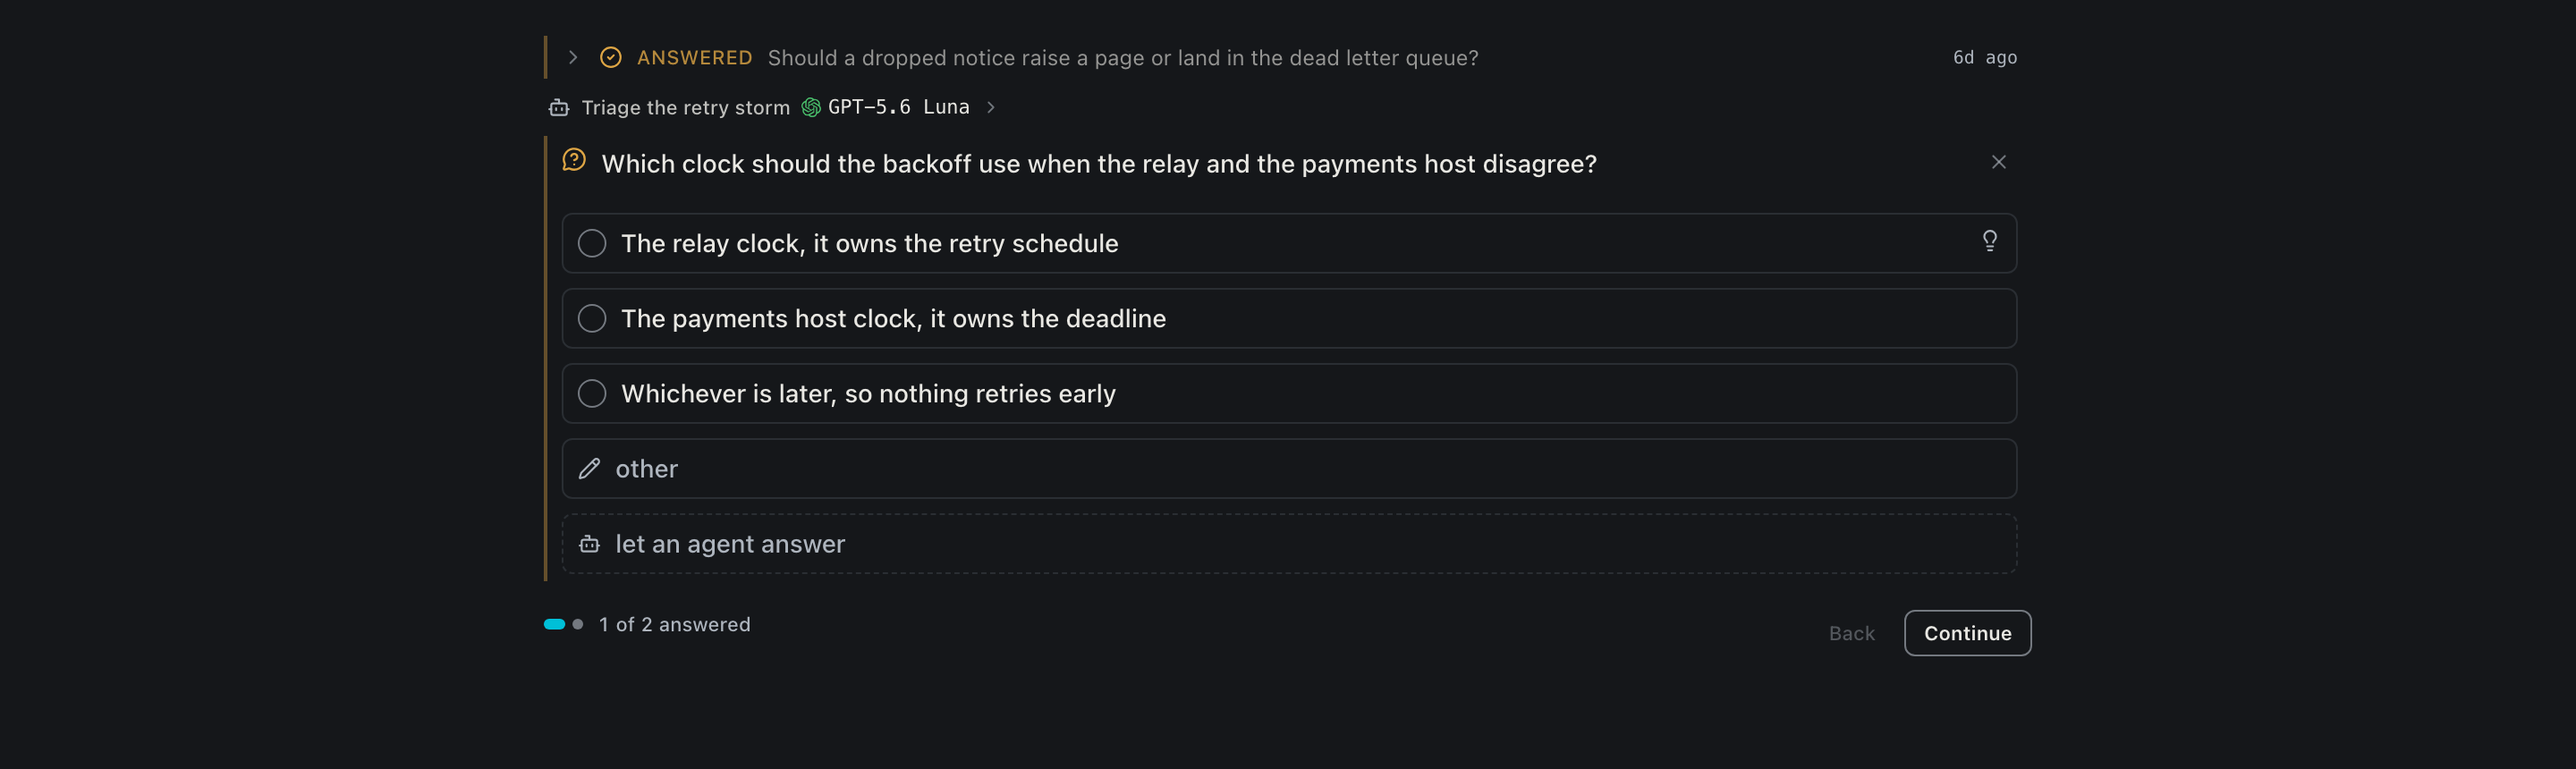
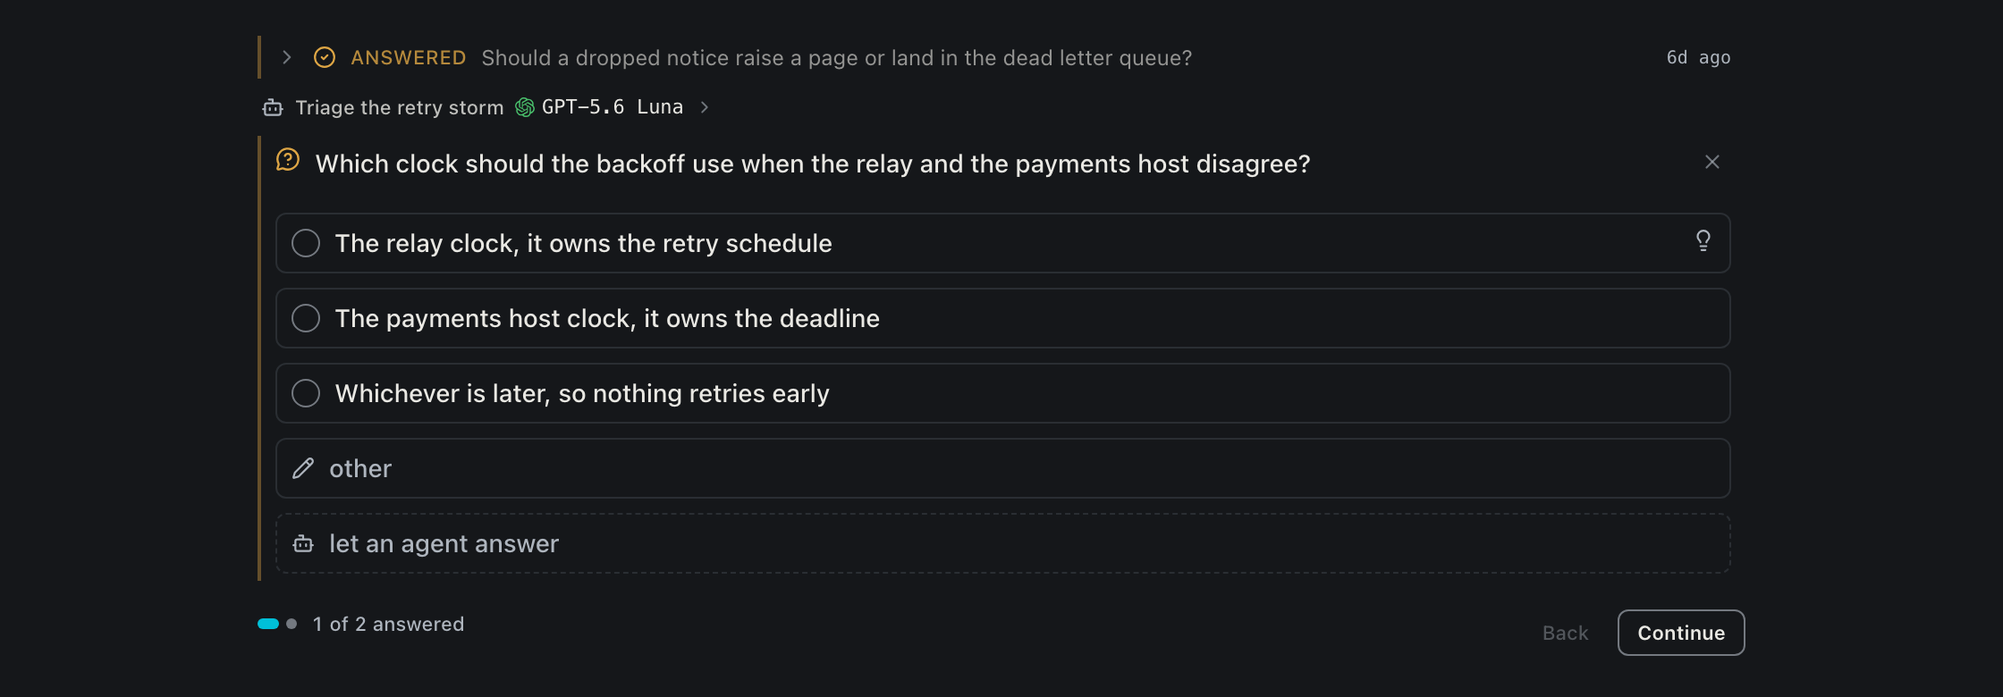
docs(repo): fix the board order and tighten the captures
Review found the column order reversed against STAGE_ORDER, two alt texts
describing states the figure does not show, and three captures ending on a
cut row or a band of empty space.

diff --git a/README.md b/README.md
@@ -14,11 +14,11 @@ No account, no server.
 ## Open the app and see what needs you
 
 Four terminals open and no idea which one is waiting on an answer. Goodboy's
-home is a board with five columns, needs you, running, in review, building and
+home is a board with five columns, building, running, needs you, in review and
 done, plus an archive at the end. Each card is a session, Goodboy's word for a
 task; open it for the plan, the questions and the diff.
 
-![The Goodboy board for a workspace: cards under needs you, running, in review and building, with the done and archived columns folded at the end](./docs/images/board-shell.png)
+![The Goodboy board for a workspace: cards under building, running, needs you and in review, with the done and archived columns folded at the end](./docs/images/board-shell.png)
 
 ## Pick up a task cold
 
@@ -66,7 +66,7 @@ shows the pull request, its checks and every comment thread. Resolve hands a
 comment to an agent, which comes back with a local commit and a drafted reply,
 and nothing reaches the pull request until you resolve it yourself.
 
-![The Resolve queue for a pull request: comment threads listed with their state, one with a fix ready on your machine, one with a question for you, one still working](./docs/images/resolve.png)
+![The Resolve queue for a pull request: comment threads with their state, two replies ready to post, one question for you, one settled but not published](./docs/images/resolve.png)
 
 ## The plan is a page, not a message
 
@@ -84,7 +84,7 @@ somebody decides. Each question comes with suggested answers to pick or
 overwrite. If it is not worth your minute, hand it to another agent with a hint
 or two: the answer counts as yours.
 
-![Two open questions from agents, each with suggested answers, a free-text field and a let an agent answer option, and one question already answered](./docs/images/open-questions.png)
+![An open question from an agent with its suggested answers, a free-text field and a let an agent answer option, under the question it already answered](./docs/images/open-questions.png)
 
 ## Also in the box
 
